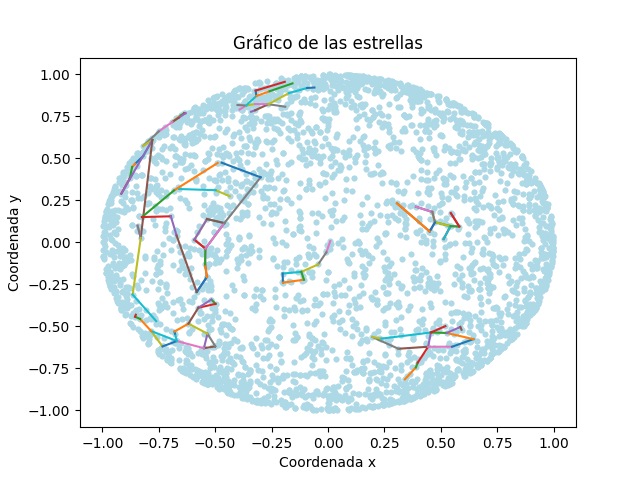
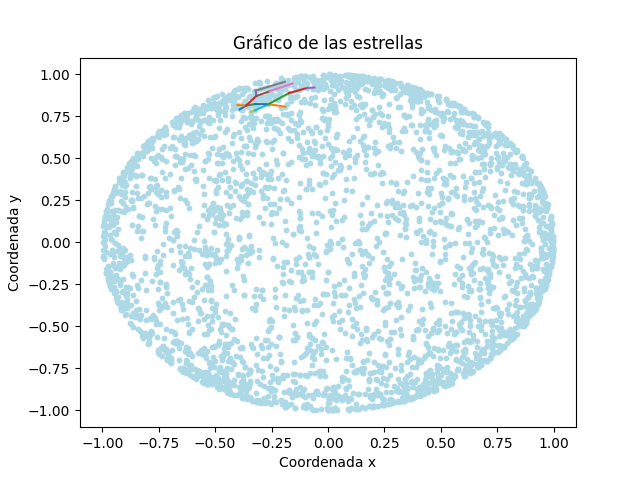
arreglar paths
arreglando relatives path

diff --git a/metodos.py b/metodos.py
@@ -24,7 +24,7 @@ def dibujarEstrellas(txt: str):
   return plt.savefig('estrellas.png')# guardar el grafico de las estrellas
 
 def start():
-  with open("constelaciones\stars.txt", 'r') as f:
+  with open("constelaciones/stars.txt", 'r') as f:
         coordenadas_constelaciones = {}
         for line in f:
             nombre = ""
@@ -64,11 +64,12 @@ def estrellas_constelacion(txt: str):
 #MAIN
 def main( constelacion = None):
   coordenadas_constelaciones= start()
-  if(constelacion):
+  if(constelacion):# es decir si ingresó un parametro de entrada 
      constelaciones = [constelacion]
   else:
-     constelaciones = ["constelaciones/Boyero.txt","constelaciones/Casiopea.txt", "constelaciones/Cazo.txt",
-                  "constelaciones/Cygnet.txt","constelaciones/Geminis.txt","constelaciones/Hydra.txt","constelaciones/OsaMayor.txt","constelaciones/OsaMenor.txt"]
+
+     constelaciones = ["constelaciones\Boyero.txt","constelaciones\Casiopea.txt", "constelaciones\Cazo.txt",
+                  "constelaciones\Cygnet.txt","constelaciones\Geminis.txt","constelaciones\Hydra.txt","constelaciones\OsaMayor.txt","constelaciones\OsaMenor.txt"]
   for c in constelaciones:
     estrellas  = estrellas_constelacion(c)
     for e in estrellas:# estrellas es una lista de listas
@@ -88,8 +89,3 @@ def main( constelacion = None):
   dibujarEstrellas("constelaciones\stars.txt")
   return plt.savefig('estrellas_constelacion.png')# guardar el grafico de las estrellas
 
-
-
-if __name__ == "__main__":
-  
-  dibujarEstrellas("constelaciones\stars.txt")

diff --git a/chikes_discretes_bot.py b/chikes_discretes_bot.py
@@ -77,7 +77,7 @@ def constelacion_ingresada(message):
          bot.register_next_step_handler(msg,constelacion_ingresada)
     else:# aquí si entro algun dato
         archivo = ""
-        archivo = "constelaciones/"+message.text+".txt"
+        archivo = "constelaciones\\"+message.text+".txt"
         plt.clf()
         constelacion = message.text
         main(archivo)
